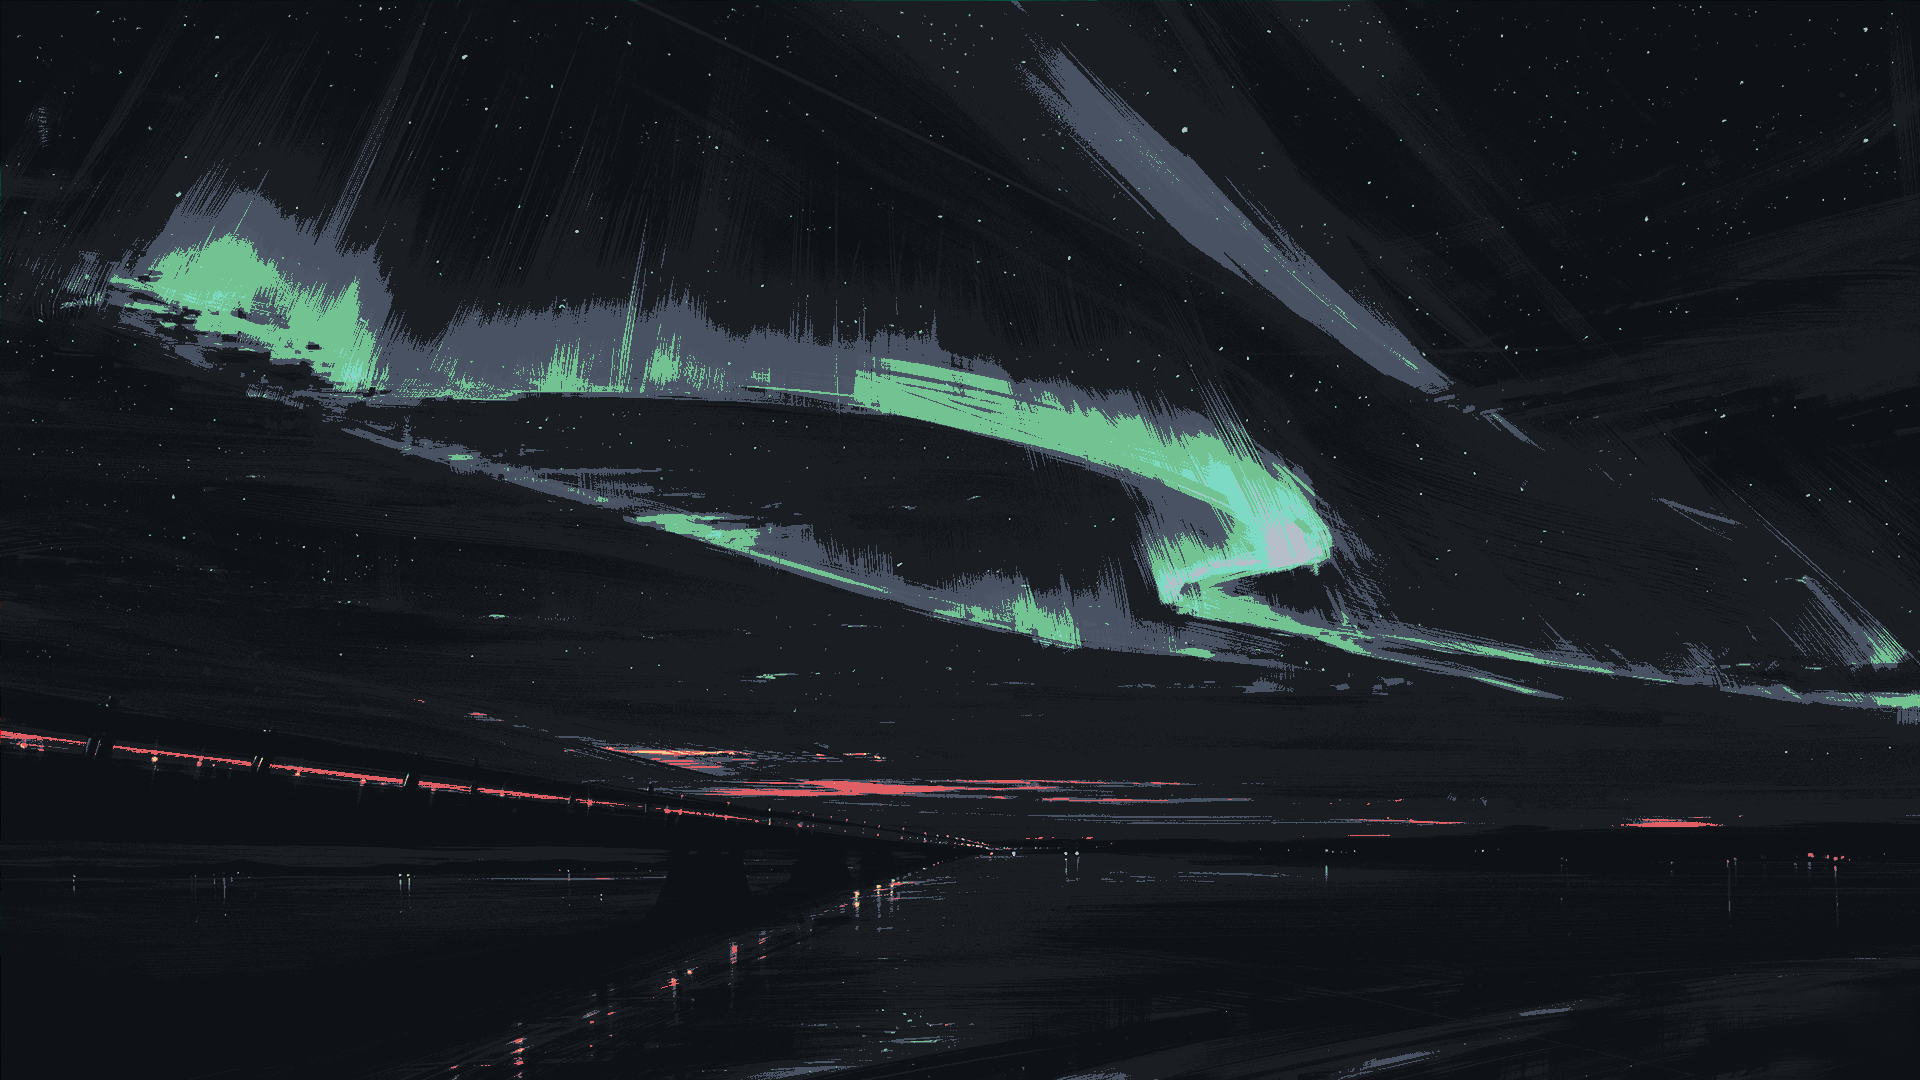
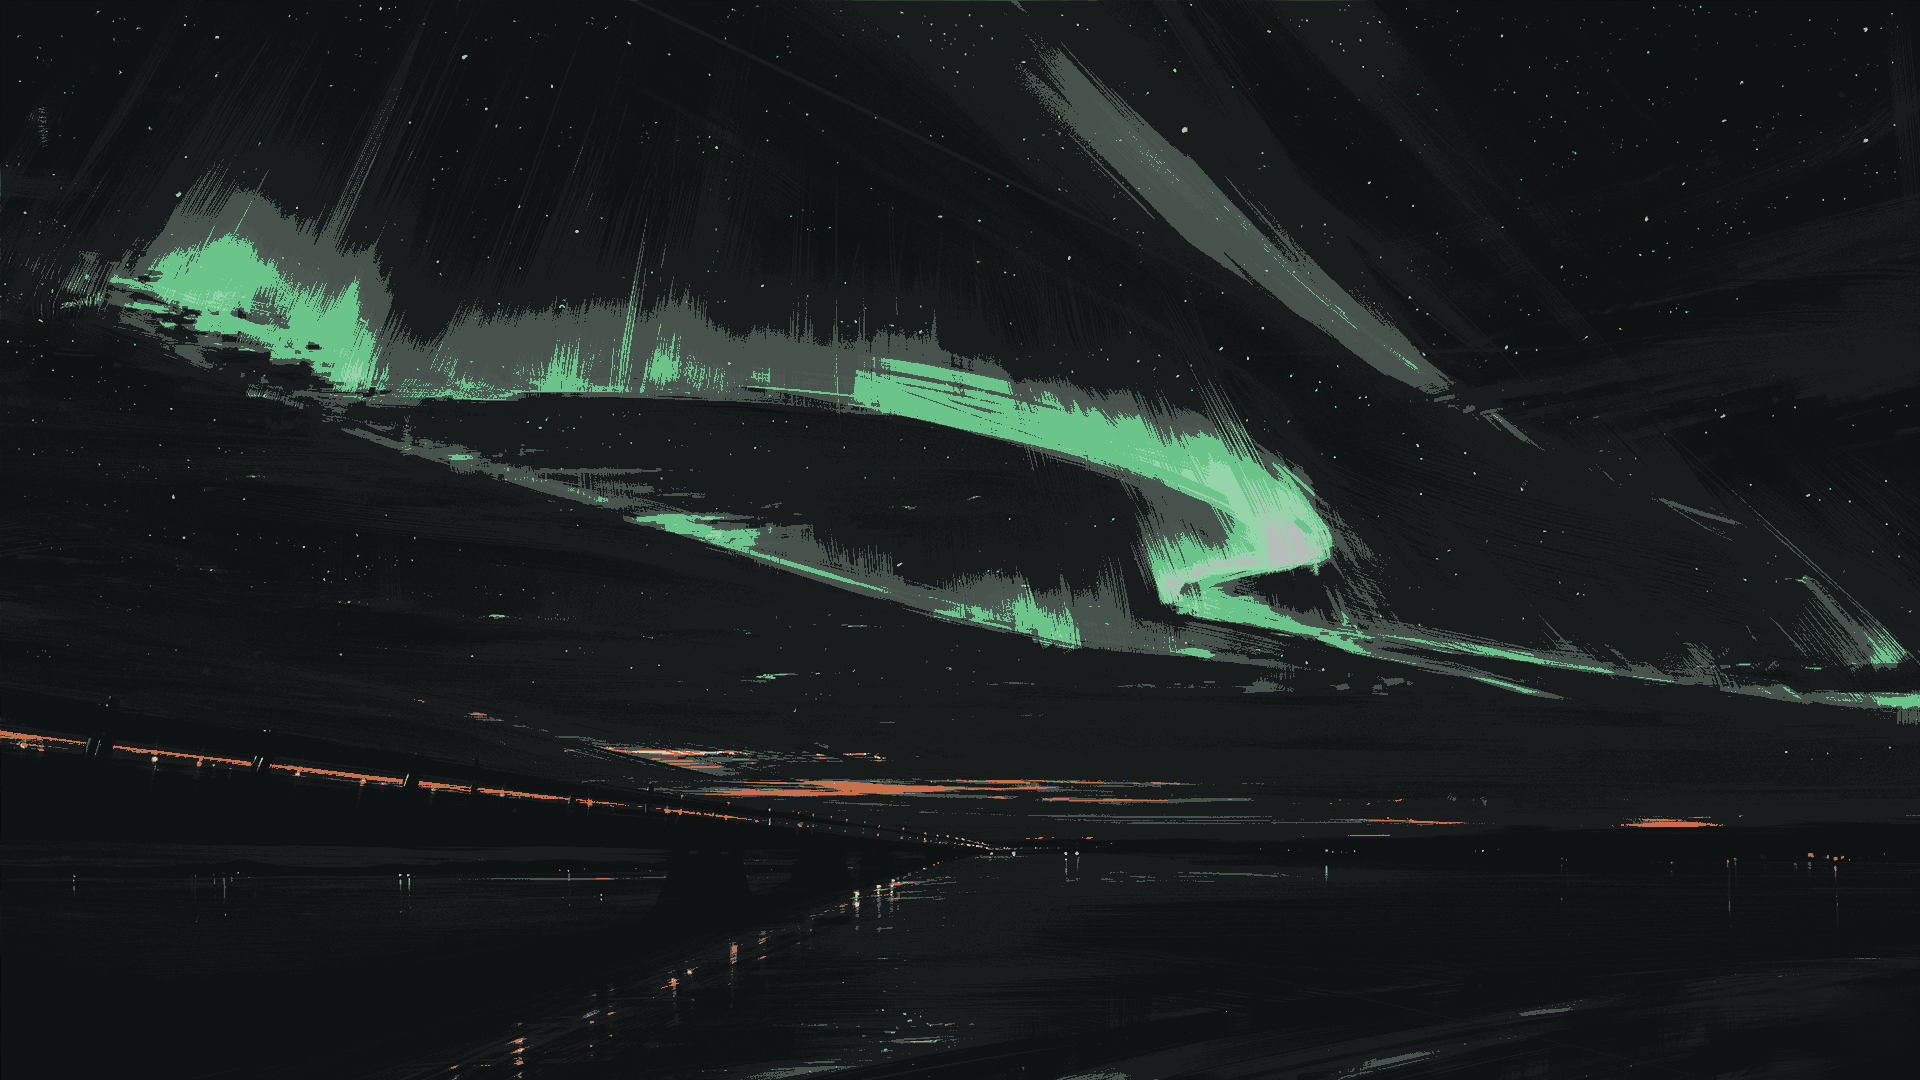
add base bgs

diff --git a/README.md b/README.md
@@ -4,7 +4,7 @@
 
 
 ## TODOS
-- [ ] use lutgen to create more bgs
+- [x] use lutgen to create more bgs
 - [x] Preview
 - [ ] complete other terminals UI 
 - [ ] finish vscode theme
